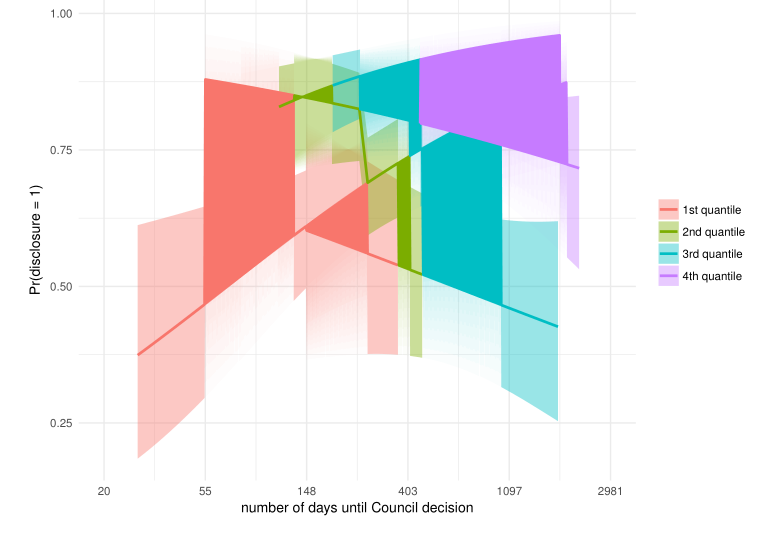
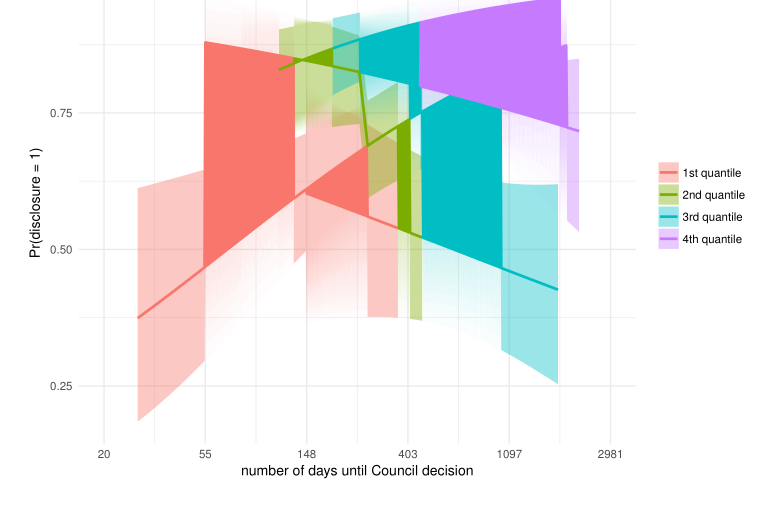
resized all header images

diff --git a/themes/hugo-academic/layouts/partials/css/academic.css b/themes/hugo-academic/layouts/partials/css/academic.css
@@ -113,7 +113,9 @@ a:focus {
 img,
 video {
   height: auto;
-  max-width: 100%;
+  max-width: 500px;
+  margin-left: auto;
+  margin-right: auto;
   display: block;
 }
 
